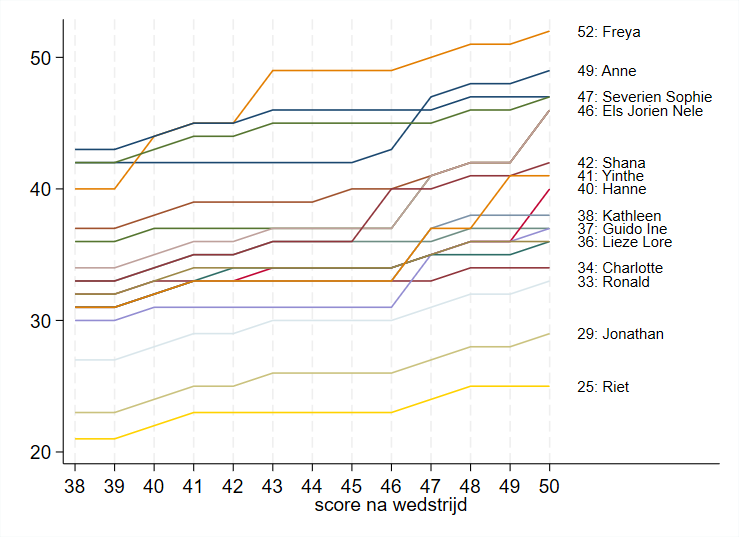
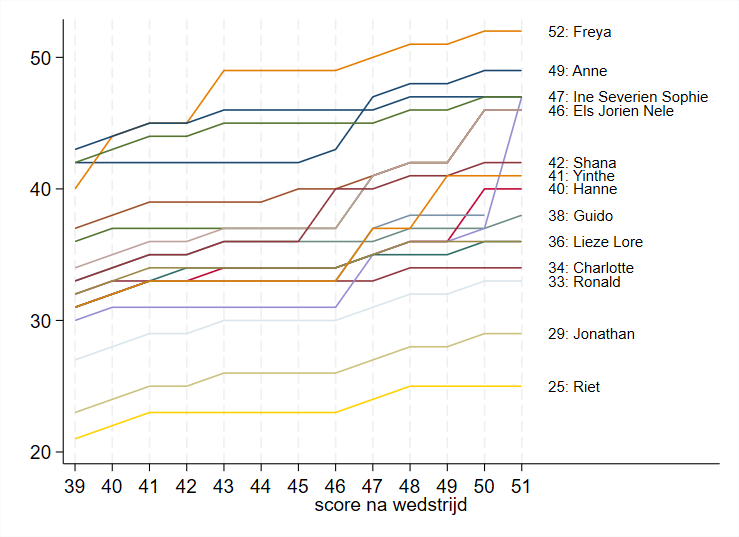
updated running score and next game

diff --git a/README.md b/README.md
@@ -1,8 +1,5 @@
 # Tussenstand
 ![running score](graphs/runningScore.png)
 
-# Volgende wedstrijd
-![next game](graphs/nextGame.png)
-
 # Score verloop
 ![next game](graphs/runningScoreFull.png)
